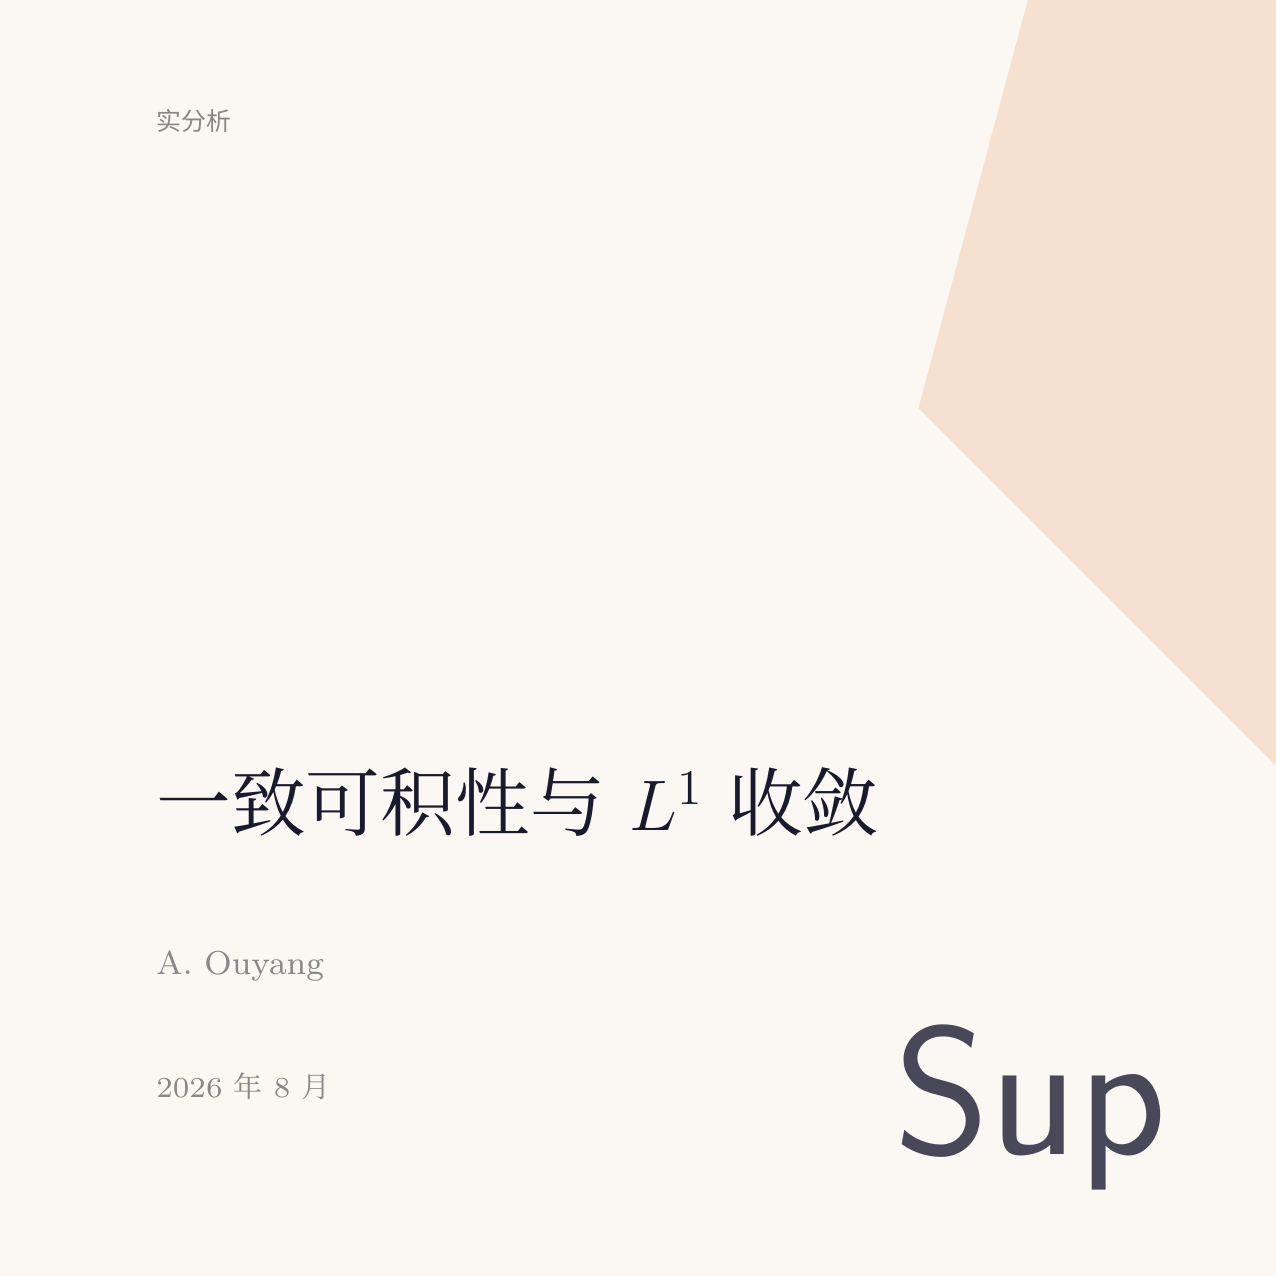
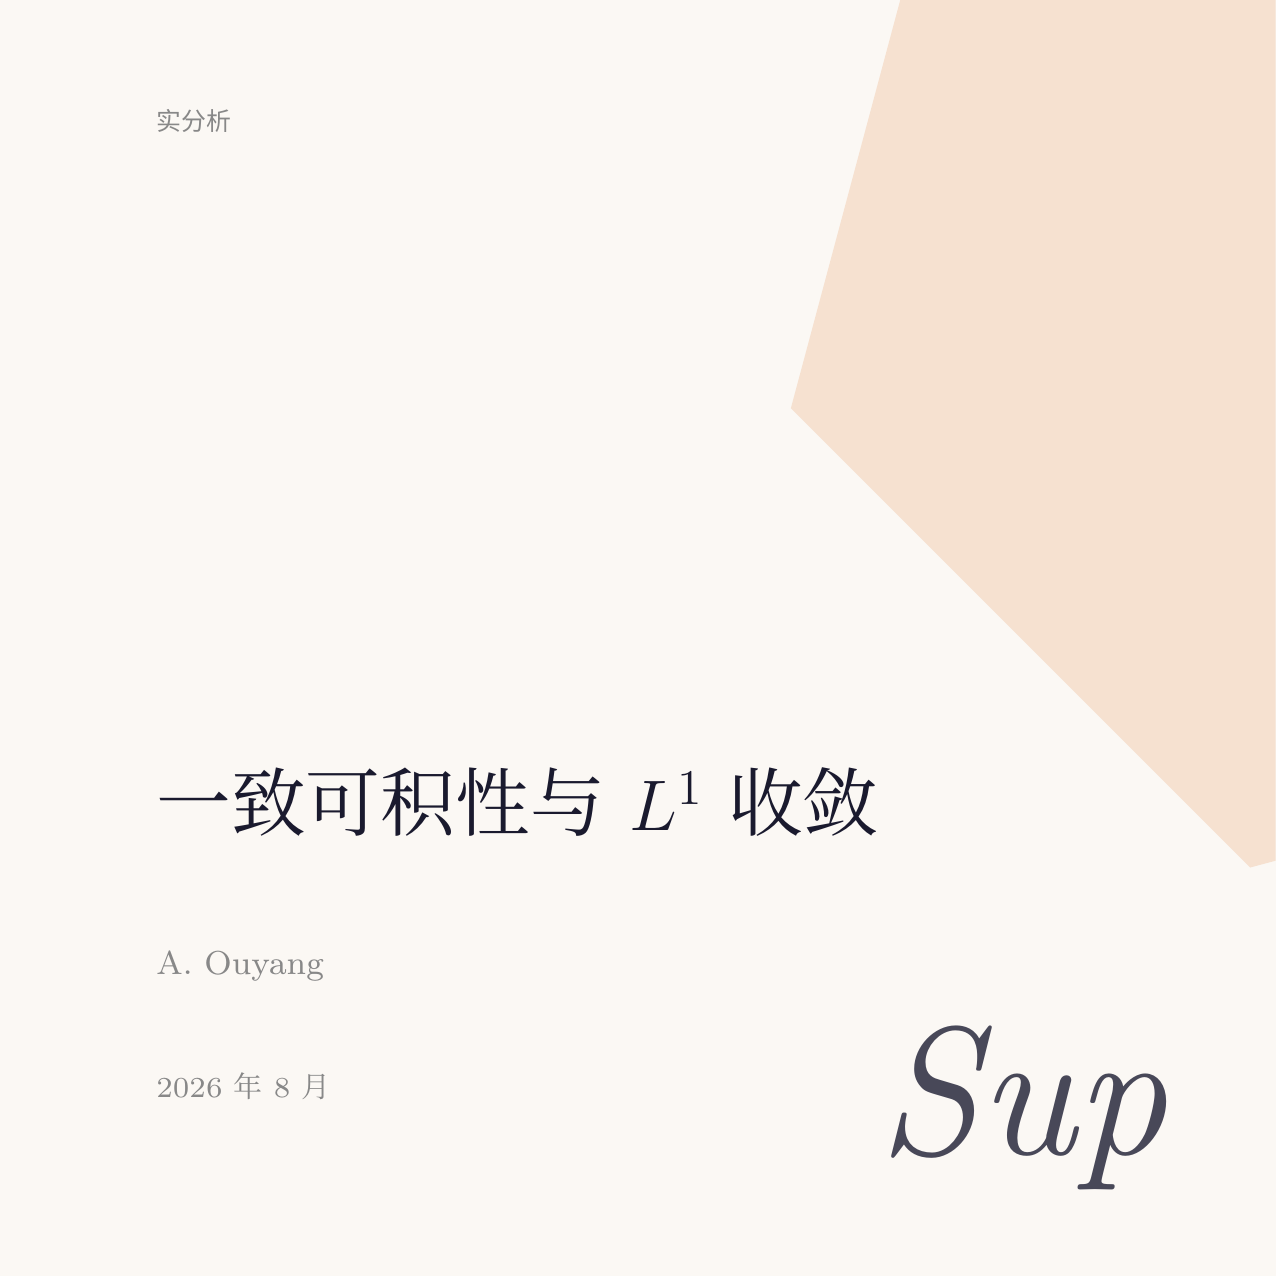
Italic serif for Sup numeral, shift hexagon left

Changed region(s): [[0.6113, 0.0, 1.0, 0.703], [0.703, 0.7947, 0.9169, 0.9169]]

diff --git a/covers/gen_covers.py b/covers/gen_covers.py
@@ -133,7 +133,7 @@ def make_cover(numeral, title, authors, date, series_name,
 
 %% Numeral
 \node[anchor=south east,
-  font=\sffamily\fontsize{"""
+  font=\itshape\fontsize{"""
     + f"{numeral_size}"
     + r"""}{"""
     + f"{numeral_size}"
@@ -162,7 +162,7 @@ for numeral, title_en, title_zh, authors, date_en, date_zh in ARTICLES:
         w, h = 10.8, 10.8
         tex = make_cover(numeral, title, authors, date, series,
             width_cm=w, height_cm=h, is_zh=is_zh,
-            hex_cx_frac=0.72, hex_cy_frac=0.68, hex_r=5.5,
+            hex_cx_frac=0.62, hex_cy_frac=0.68, hex_r=5.5,
             title_size=18, title_lead=24, numeral_size=44,
             title_width_frac=0.65, series_size=6,
             numeral_xshift=-0.8, numeral_yshift=0.6,
@@ -176,7 +176,7 @@ for numeral, title_en, title_zh, authors, date_en, date_zh in ARTICLES:
         w, h = 23.5, 10.0
         tex = make_cover(numeral, title, authors, date, series,
             width_cm=w, height_cm=h, is_zh=is_zh,
-            hex_cx_frac=0.75, hex_cy_frac=0.65, hex_r=7.0,
+            hex_cx_frac=0.65, hex_cy_frac=0.65, hex_r=7.0,
             title_size=20, title_lead=27, numeral_size=50,
             title_width_frac=0.45, series_size=7,
             numeral_xshift=-1.0, numeral_yshift=0.6,
